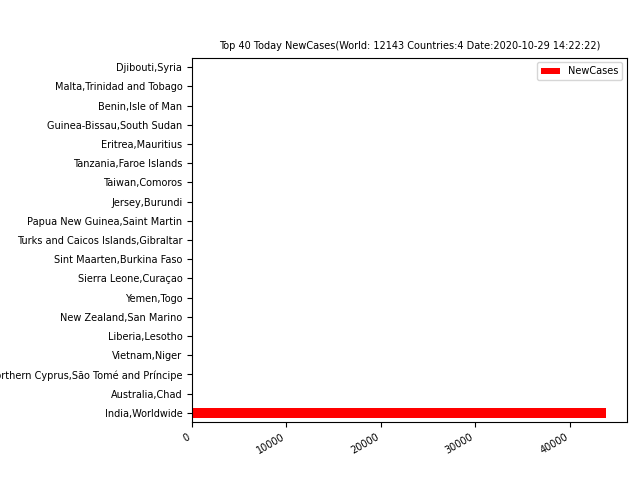
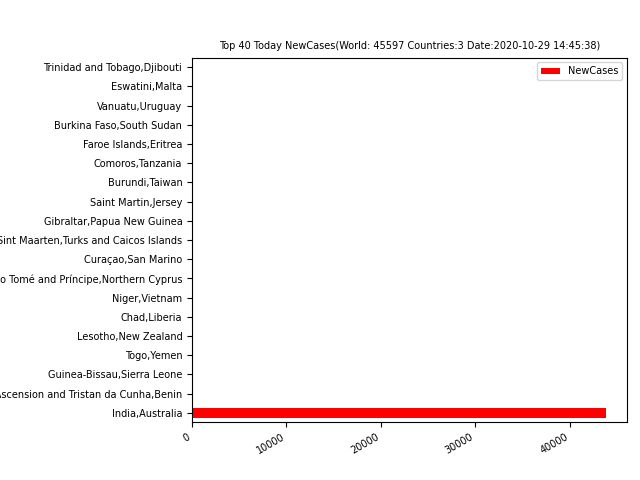
update to 10/29/20

diff --git a/coronavirus/plotCoronavirous.py b/coronavirus/plotCoronavirous.py
@@ -653,8 +653,8 @@ def plotNewCasesByCountry(csvpath=r'./data/'):
         print('Read date record error:',dateBefore)
         return
     
-    print(pdDate.head())
-    print(pdDateBefore.head())
+    #print(pdDate.head())
+    #print(pdDateBefore.head())
     # print(pdDate.index)
     # print(pdDateBefore.index)
     # print(pdDate.index == pdDateBefore.index )
@@ -668,6 +668,8 @@ def plotNewCasesByCountryData(df,number = 40):
     df.set_index(["Location"], inplace=True)
     #print('newDf=\n',df.head()) #df.head()
     #print(df.shape)
+    
+    df = df.drop(index = 'Worldwide')
     
     if number>df.shape[0]:
         number = df.shape[0]
@@ -685,6 +687,7 @@ def plotNewCasesByCountryData(df,number = 40):
     df = df.sort_values(by=['NewDeaths'], ascending=False)
     df2 = df.iloc[1:number,[1]]
     
+    #print('df1=\n',df1)
     #print('df2=\n',df2)
     
     #print(df.head())
@@ -981,9 +984,9 @@ if __name__ == '__main__':
     # plotData(df, number=60)
     
     #readCsv(csvpath+'coronavirous_2020-07-02_110250.csv')
-    plotChangeBydata(csvpath)
+    #plotChangeBydata(csvpath)
     #plotWorldStatConfirmCaseByTime()
     #plotWorldStatDeathsByTime()
     #plotWorldStatisticByTime()
-    #plotNewCasesByCountry(csvpath)
+    plotNewCasesByCountry(csvpath)
     #plotCountriesInfo(csvpath)

diff --git a/README.md b/README.md
@@ -41,7 +41,7 @@ Updated to adapt to the new google page.<br/>
  
 <br/>
 
-#### Statistics cases by time.
+### Statistics cases by time
 <br/>
 
 |||
@@ -59,7 +59,8 @@ Updated to adapt to the new google page.<br/>
 |<img src="images/WorldChange_newCases.png" width="320" height="240" />|<img src="images/WorldChange_mortality.png" width="320" height="240" />|
 |||
 <br/>
-#### World Prediction
+
+### World Prediction
 <br/>
 The world predicted confirmed cases by using LSTM algorithm.<br/>
 Source reference: https://ourworldindata.org/covid-cases<br/>
